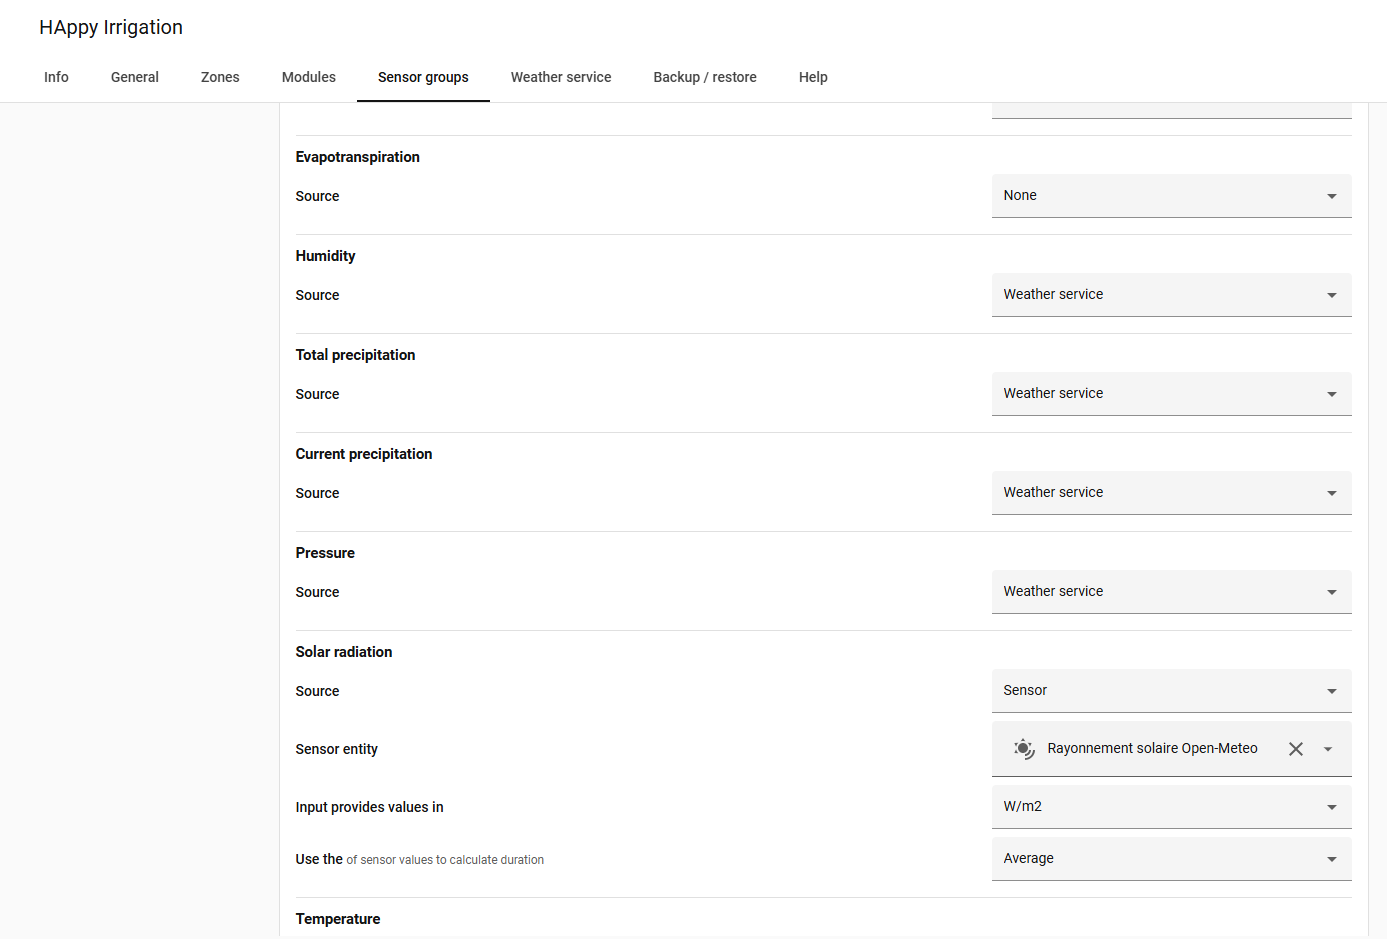
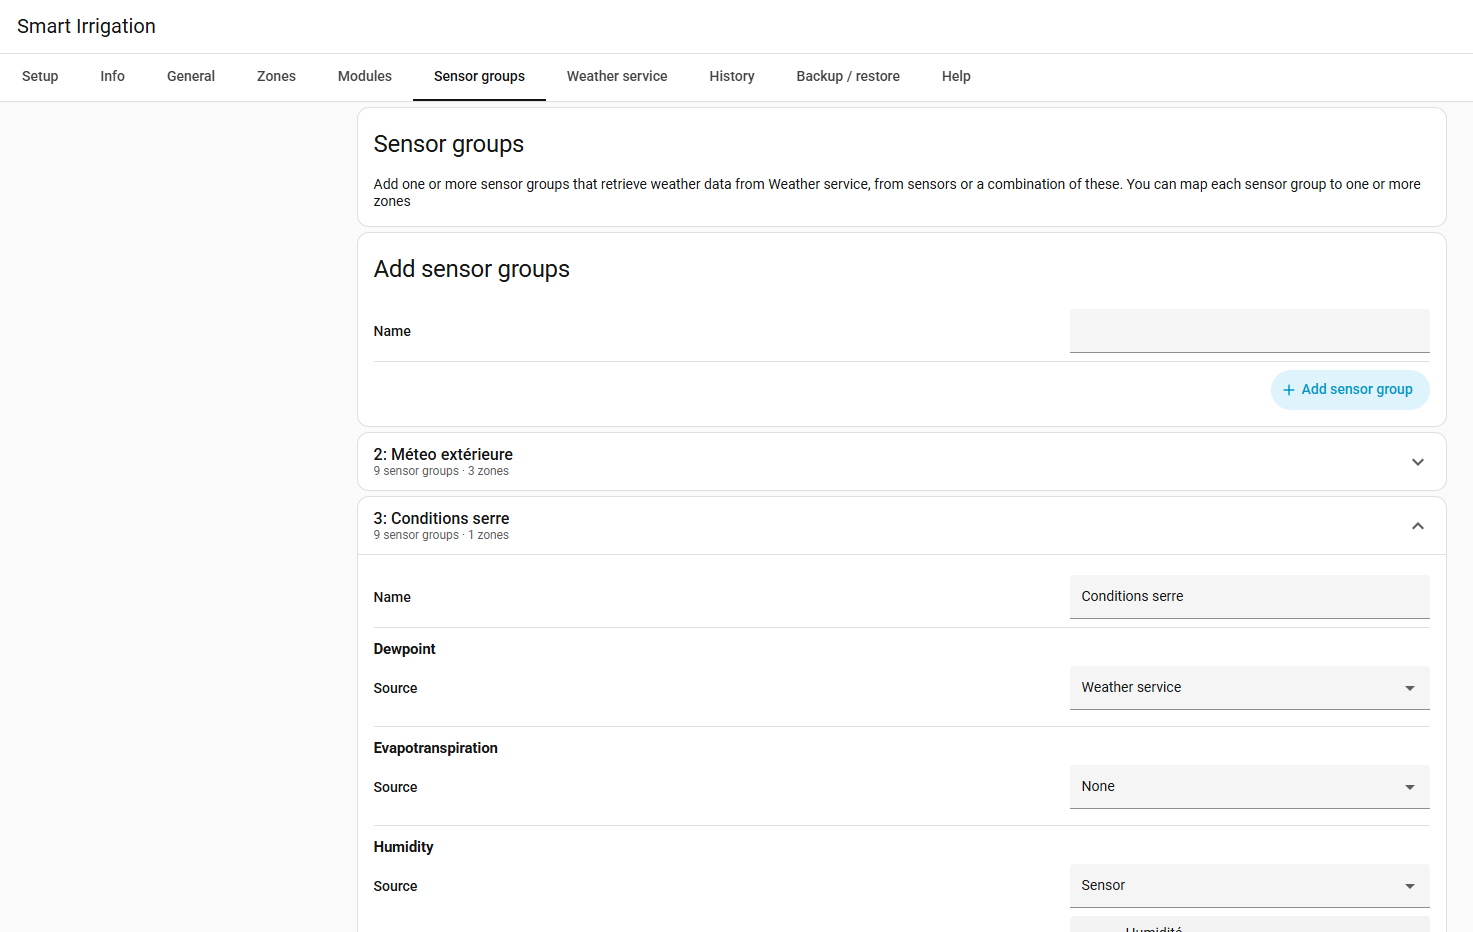
docs: current panel screenshots, and HACS default instead of a custom repository
The front page still showed the panel of the fork this maintenance
started from, under its old name. The screenshots are the current zones,
sensor groups and info pages. The installation steps described adding a
custom repository, which has not been needed since the integration is
in the HACS default store.

diff --git a/README.md b/README.md
@@ -37,18 +37,16 @@ Multiple zones are supported, each zone having its own configuration and set up.
 </p>
 
 <p align="center">
+  <img src="https://raw.githubusercontent.com/altmenorg/HAsmartirrigation/master/images/panel-info.png" alt="Info page: the next run and whether it will be skipped" width="420">
   <img src="https://raw.githubusercontent.com/altmenorg/HAsmartirrigation/master/images/panel-sensor-groups.png" alt="Sensor groups configuration" width="420">
-  <img src="https://raw.githubusercontent.com/altmenorg/HAsmartirrigation/master/images/panel-backup-restore.png" alt="Backup / restore" width="420">
 </p>
 
 ## Installation
 
-**Via HACS (recommended).** Smart Irrigation is distributed as a HACS **custom repository**:
+**Via HACS (recommended).** Smart Irrigation is in the HACS default store, so there is no repository to add:
 
-1. In [HACS](https://hacs.xyz), open the **⋮ menu → Custom repositories**.
-2. Add `https://github.com/altmenorg/HAsmartirrigation` with category **Integration**, and confirm.
-3. Search for **Smart Irrigation** in HACS and click **Download**.
-4. **Restart Home Assistant**, then add it from *Settings → Devices & Services → Add Integration → Smart Irrigation*.
+1. In [HACS](https://hacs.xyz), search for **Smart Irrigation** and click **Download**.
+2. **Restart Home Assistant**, then add it from *Settings → Devices & Services → Add Integration → Smart Irrigation*.
 
 **Manually.** Download the [latest release](https://github.com/altmenorg/HAsmartirrigation/releases) and extract it into `custom_components/smart_irrigation/`, then restart Home Assistant.
 

diff --git a/docs/installation-download.md b/docs/installation-download.md
@@ -8,10 +8,7 @@ title: Installation: Download
 > Next: [Set up weatherservice](installation-weatherservice.md)
 
 1. Install the custom integration using HACS or manually:
-    * **Using HACS (recommended)**: Smart Irrigation is distributed as a HACS **custom repository**, so you add it once and HACS then handles updates:
-        1. In the [HACS](https://hacs.xyz) panel, open the **⋮ menu → Custom repositories**.
-        2. Add `https://github.com/altmenorg/HAsmartirrigation` with category **Integration**, and confirm.
-        3. Search for **Smart Irrigation** in HACS and click **Download**.
+    * **Using HACS (recommended)**: Smart Irrigation is in the HACS default store, and HACS handles updates. In the [HACS](https://hacs.xyz) panel, search for **Smart Irrigation** and click **Download**. If you added this repository as a custom repository in the past, that entry is no longer needed.
     * **Manually**: Download the [latest release](../releases) as a zip file and extract it into the `custom_components` folder of your Home Assistant configuration (you should end up with `custom_components/smart_irrigation/`).
 
 2. Restart Home Assistant to load the integration.
